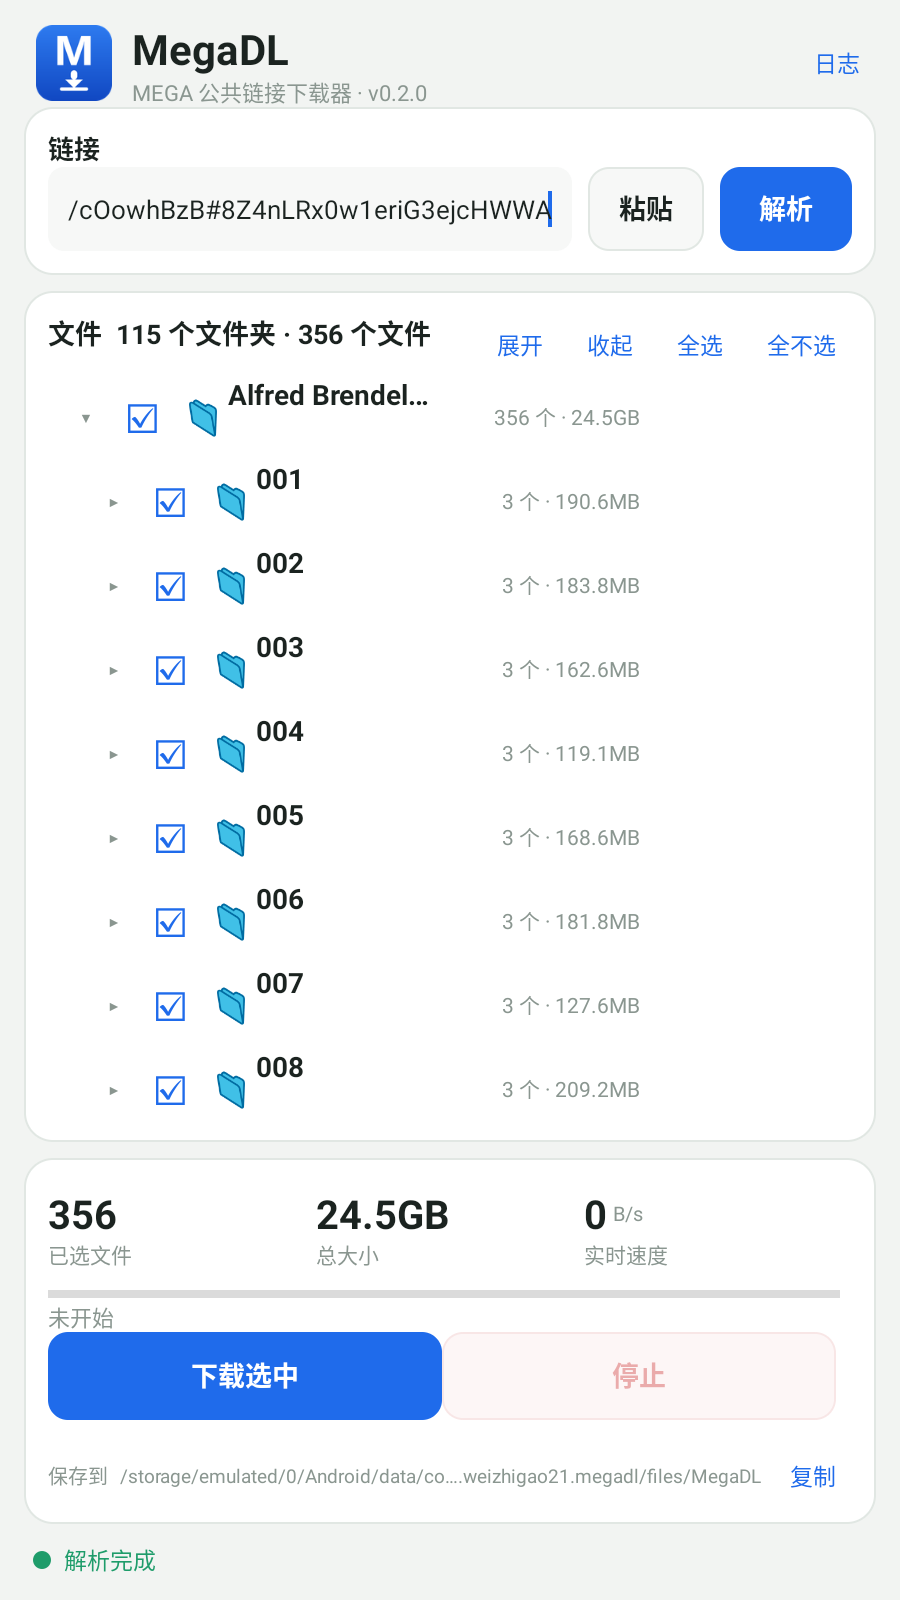
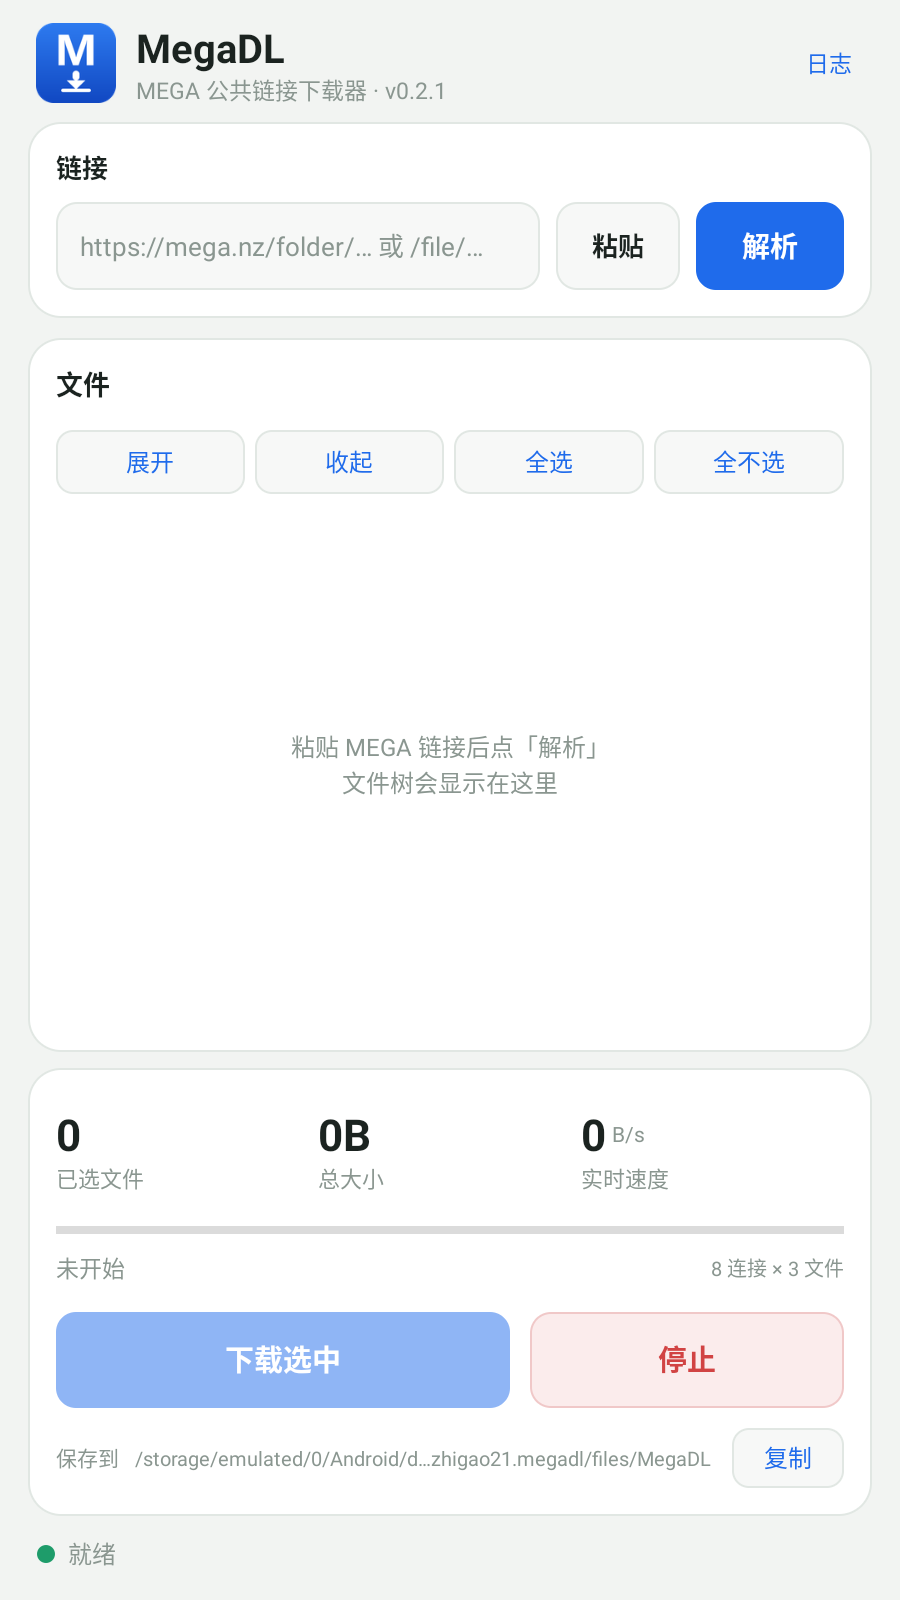
安卓界面 v0.2.1：重排尺寸与按钮比例
链接卡按钮 44dp 高、文件操作改为等宽分组；统计数字 22sp，进度行右侧固定显示并发信息，下载/停止按钮 48dp 且主次 1.45:1；保存路径与复制按钮对齐；文件树行高 44dp，压缩大小/状态列给文件名让位；空状态提示；修复停止时进度被置满。

diff --git a/android/src/com/weizhigao21/megadl/MainActivity.java b/android/src/com/weizhigao21/megadl/MainActivity.java
@@ -88,13 +88,13 @@ public class MainActivity extends Activity implements TreeAdapter.Host {
         LinearLayout root = new LinearLayout(this);
         root.setOrientation(LinearLayout.VERTICAL);
         root.setBackgroundColor(BG);
-        root.setPadding(dp(12), dp(10), dp(12), dp(8));
+        root.setPadding(dp(14), dp(10), dp(14), dp(10));
         setContentView(root);
 
-        root.addView(buildHeader(), lp(-1, -2, 0, 6, 0, 0));
+        root.addView(buildHeader(), lp(-1, -2, 0, 4, 0, 8));
 
         LinearLayout linkCard = card();
-        linkCard.addView(label("链接", 13, TEXT, true));
+        linkCard.addView(label("链接", 13, TEXT, true), lp(-1, -2, 0, 0, 0, 8));
         LinearLayout inputRow = new LinearLayout(this);
         inputRow.setOrientation(LinearLayout.HORIZONTAL);
         inputRow.setGravity(Gravity.CENTER_VERTICAL);
@@ -105,29 +105,31 @@ public class MainActivity extends Activity implements TreeAdapter.Host {
         input.setHintTextColor(MUTED);
         input.setHint("https://mega.nz/folder/… 或 /file/…");
         input.setInputType(InputType.TYPE_CLASS_TEXT | InputType.TYPE_TEXT_VARIATION_URI);
-        input.setBackground(round(FIELD, 8, 0, 0));
-        input.setPadding(dp(10), dp(8), dp(10), dp(8));
-        inputRow.addView(input, lp(0, dp(42), 1f, 0, 8, 0));
+        input.setBackground(round(FIELD, 10, 1, BORDER));
+        input.setPadding(dp(12), dp(8), dp(12), dp(8));
+        inputRow.addView(input, lp(0, dp(44), 1f, 0, 8, 0));
         TextView paste = pill("粘贴", false, false);
+        paste.setTextSize(13);
         paste.setOnClickListener(v -> paste());
-        inputRow.addView(paste, lp(dp(58), dp(42), 0f, 0, 8, 0));
+        inputRow.addView(paste, lp(dp(62), dp(44), 0f, 0, 8, 0));
         TextView parse = pill("解析", true, false);
+        parse.setTextSize(14);
         parse.setOnClickListener(v -> doParse());
-        inputRow.addView(parse, lp(dp(66), dp(42), 0f, 0, 0, 0));
+        inputRow.addView(parse, lp(dp(74), dp(44), 0f, 0, 0, 0));
         linkCard.addView(inputRow);
-        root.addView(linkCard, lp(-1, -2, 0, 0, 0, 8));
+        root.addView(linkCard, lp(-1, -2, 0, 0, 0, 10));
 
         LinearLayout fileCard = card();
-        LinearLayout fileHead = new LinearLayout(this);
-        fileHead.setOrientation(LinearLayout.HORIZONTAL);
-        fileHead.setGravity(Gravity.CENTER_VERTICAL);
         fileSummary = label("文件", 13.5f, TEXT, true);
-        fileHead.addView(fileSummary, lp(0, dp(30), 1f, 0, 0, 0));
-        fileHead.addView(action("展开", v -> expandAll(true)), lp(-2, dp(30), 0f, 0, 6, 0));
-        fileHead.addView(action("收起", v -> expandAll(false)), lp(-2, dp(30), 0f, 0, 6, 0));
-        fileHead.addView(action("全选", v -> selectAll(true)), lp(-2, dp(30), 0f, 0, 6, 0));
-        fileHead.addView(action("全不选", v -> selectAll(false)), lp(-2, dp(30), 0f, 0, 0, 0));
-        fileCard.addView(fileHead);
+        fileCard.addView(fileSummary, lp(-1, dp(28), 0, 0, 0, 4));
+
+        LinearLayout fileActions = new LinearLayout(this);
+        fileActions.setOrientation(LinearLayout.HORIZONTAL);
+        fileActions.addView(actionChip("展开", v -> expandAll(true)), lp(0, dp(32), 1f, 0, 5, 0));
+        fileActions.addView(actionChip("收起", v -> expandAll(false)), lp(0, dp(32), 1f, 0, 5, 0));
+        fileActions.addView(actionChip("全选", v -> selectAll(true)), lp(0, dp(32), 1f, 0, 5, 0));
+        fileActions.addView(actionChip("全不选", v -> selectAll(false)), lp(0, dp(32), 1f, 0, 0, 0));
+        fileCard.addView(fileActions, lp(-1, -2, 0, 0, 0, 6));
 
         list = new ListView(this);
         list.setDivider(null);
@@ -137,6 +139,12 @@ public class MainActivity extends Activity implements TreeAdapter.Host {
         adapter = new TreeAdapter(this, this);
         list.setAdapter(adapter);
         fileCard.addView(list, lp(-1, 0, 1f, 0, 0, 0));
+
+        TextView emptyHint = label("粘贴 MEGA 链接后点「解析」\n文件树会显示在这里", 12, MUTED, false);
+        emptyHint.setGravity(Gravity.CENTER);
+        emptyHint.setLineSpacing(dp(4), 1f);
+        fileCard.addView(emptyHint, lp(-1, 0, 1f, 0, 0, 0));
+        list.setEmptyView(emptyHint);
         root.addView(fileCard, lp(-1, 0, 1f, 0, 0, 8));
 
         root.addView(buildStatsCard(), lp(-1, -2, 0, 0, 0, 6));
@@ -147,9 +155,9 @@ public class MainActivity extends Activity implements TreeAdapter.Host {
         statusRow.setPadding(dp(4), 0, dp(4), 0);
         statusDot = label("●", 10, SUCCESS, false);
         statusRow.addView(statusDot);
-        statusText = label("就绪", 11.5f, MUTED, false);
+        statusText = label("就绪", 12, MUTED, false);
         statusRow.addView(statusText, lp(0, -2, 1f, 6, 0, 0));
-        root.addView(statusRow, lp(-1, dp(24), 0f, 0, 0, 0));
+        root.addView(statusRow, lp(-1, dp(26), 0f, 0, 0, 0));
     }
 
     private View buildHeader() {
@@ -158,14 +166,15 @@ public class MainActivity extends Activity implements TreeAdapter.Host {
         header.setGravity(Gravity.CENTER_VERTICAL);
         android.widget.ImageView icon = new android.widget.ImageView(this);
         icon.setImageResource(R.mipmap.ic_launcher);
-        header.addView(icon, lp(dp(38), dp(38), 0f, 0, 10, 0));
+        header.addView(icon, lp(dp(40), dp(40), 0f, 0, 10, 0));
         LinearLayout titles = new LinearLayout(this);
         titles.setOrientation(LinearLayout.VERTICAL);
-        titles.addView(label("MegaDL", 21, TEXT, true));
-        titles.addView(label("MEGA 公共链接下载器 · v0.2.0", 11, MUTED, false));
+        titles.addView(label("MegaDL", 20, TEXT, true));
+        titles.addView(label("MEGA 公共链接下载器 · v0.2.1", 11.5f, MUTED, false));
         header.addView(titles, lp(-2, -2, 1f, 0, 0, 0));
         TextView logBtn = action("日志", v -> showLogs());
-        header.addView(logBtn, lp(-2, dp(32), 0f, 0, 0, 0));
+        logBtn.setPadding(dp(10), dp(6), dp(10), dp(6));
+        header.addView(logBtn, lp(-2, dp(34), 0f, 0, 0, 0));
         return header;
     }
 
@@ -175,67 +184,70 @@ public class MainActivity extends Activity implements TreeAdapter.Host {
         LinearLayout metrics = new LinearLayout(this);
         metrics.setOrientation(LinearLayout.HORIZONTAL);
         metrics.setGravity(Gravity.CENTER_VERTICAL);
-        metrics.setPadding(0, dp(2), 0, dp(4));
+        metrics.setPadding(0, dp(4), 0, dp(8));
 
         LinearLayout c1 = metricColumn("0", null, "已选文件");
         countValue = (TextView) c1.getTag();
-        metrics.addView(c1, lp(0, dp(46), 1f, 0, 0, 0));
+        metrics.addView(c1, lp(0, dp(52), 1f, 0, 0, 0));
 
         LinearLayout c2 = metricColumn("0B", null, "总大小");
         sizeValue = (TextView) c2.getTag();
-        metrics.addView(c2, lp(0, dp(46), 1f, 0, 0, 0));
+        metrics.addView(c2, lp(0, dp(52), 1f, 0, 0, 0));
 
         LinearLayout c3 = metricColumnSpeed("0", "B/s", "实时速度");
         speedValue = (TextView) c3.getTag();
         speedUnit = (TextView) c3.getTag(R.id.speed_unit);
-        metrics.addView(c3, lp(0, dp(46), 1f, 0, 0, 0));
+        metrics.addView(c3, lp(0, dp(52), 1f, 0, 0, 0));
         card.addView(metrics);
 
         progress = new ProgressBar(this, null, android.R.attr.progressBarStyleHorizontal);
         progress.setMax(1000);
         progress.setProgress(0);
         progress.setProgressTintList(android.content.res.ColorStateList.valueOf(ACCENT));
-        card.addView(progress, lp(-1, dp(8), 0f, 0, 6, 0));
+        card.addView(progress, lp(-1, dp(6), 0f, 0, 0, 4));
 
         LinearLayout progressRow = new LinearLayout(this);
         progressRow.setOrientation(LinearLayout.HORIZONTAL);
-        progressText = label("", 11, MUTED, false);
+        progressRow.setGravity(Gravity.CENTER_VERTICAL);
+        progressText = label("", 11.5f, MUTED, false);
         progressText.setText("未开始");
-        progressRow.addView(progressText, lp(0, -2, 1f, 0, 0, 0));
-        pathText = label("", 10, MUTED, false);
+        progressRow.addView(progressText, lp(0, -2, 1f, 0, 8, 0));
+        pathText = label("8 连接 × 3 文件", 10, MUTED, false);
         pathText.setSingleLine(true);
-        pathText.setEllipsize(TextUtils.TruncateAt.MIDDLE);
-        progressRow.addView(pathText, lp(0, -2, 1.2f, 0, 0, 0));
-        card.addView(progressRow, lp(-1, -2, 0, 0, 6, 0));
+        pathText.setGravity(Gravity.END);
+        progressRow.addView(pathText, lp(-2, -2, 0f, 0, 0, 0));
+        card.addView(progressRow, lp(-1, dp(24), 0, 0, 0, 10));
 
         LinearLayout buttons = new LinearLayout(this);
         buttons.setOrientation(LinearLayout.HORIZONTAL);
         downloadButton = pill("下载选中", true, false);
+        downloadButton.setTextSize(14.5f);
         downloadButton.setOnClickListener(v -> startDownload());
-        buttons.addView(downloadButton, lp(0, dp(44), 1f, 0, 0, 8));
+        buttons.addView(downloadButton, lp(0, dp(48), 1.45f, 0, 10, 0));
         stopButton = pill("停止", false, true);
+        stopButton.setTextSize(14.5f);
         stopButton.setOnClickListener(v -> stopDownload());
-        buttons.addView(stopButton, lp(0, dp(44), 1f, 0, 8, 0));
-        card.addView(buttons, lp(-1, -2, 0, 0, 0, 0));
+        buttons.addView(stopButton, lp(0, dp(48), 1f, 0, 0, 0));
+        card.addView(buttons);
 
         LinearLayout pathRow = new LinearLayout(this);
         pathRow.setOrientation(LinearLayout.HORIZONTAL);
         pathRow.setGravity(Gravity.CENTER_VERTICAL);
-        pathRow.setPadding(0, dp(8), 0, 0);
-        pathRow.addView(label("保存到", 10, MUTED, false));
-        TextView savePath = label(saveDir().getAbsolutePath(), 9.5f, MUTED, false);
+        pathRow.setPadding(0, dp(10), 0, 0);
+        pathRow.addView(label("保存到", 10.5f, MUTED, false));
+        TextView savePath = label(saveDir().getAbsolutePath(), 10, MUTED, false);
         savePath.setSingleLine(true);
         savePath.setEllipsize(TextUtils.TruncateAt.MIDDLE);
-        savePath.setPadding(dp(6), 0, dp(6), 0);
+        savePath.setPadding(dp(8), 0, dp(8), 0);
         pathRow.addView(savePath, lp(0, -2, 1f, 0, 0, 0));
-        TextView copyBtn = action("复制", v -> {
+        TextView copyBtn = actionChip("复制", v -> {
             ClipboardManager cm = (ClipboardManager) getSystemService(Context.CLIPBOARD_SERVICE);
             if (cm != null) {
                 cm.setPrimaryClip(ClipData.newPlainText("MegaDL 保存路径", saveDir().getAbsolutePath()));
                 toast("路径已复制");
             }
         });
-        pathRow.addView(copyBtn);
+        pathRow.addView(copyBtn, lp(dp(56), dp(30), 0f, 0, 0, 0));
         card.addView(pathRow);
         return card;
     }
@@ -244,10 +256,10 @@ public class MainActivity extends Activity implements TreeAdapter.Host {
         LinearLayout col = new LinearLayout(this);
         col.setOrientation(LinearLayout.VERTICAL);
         col.setGravity(Gravity.CENTER_HORIZONTAL);
-        TextView v = label(value, 20, TEXT, true);
+        TextView v = label(value, 22, TEXT, true);
         v.setSingleLine(true);
         col.addView(v);
-        col.addView(label(caption, 10.5f, MUTED, false));
+        col.addView(label(caption, 11, MUTED, false));
         col.setTag(v);
         return col;
     }
@@ -259,15 +271,15 @@ public class MainActivity extends Activity implements TreeAdapter.Host {
         LinearLayout line = new LinearLayout(this);
         line.setOrientation(LinearLayout.HORIZONTAL);
         line.setGravity(Gravity.CENTER_VERTICAL);
-        TextView v = label(value, 20, TEXT, true);
+        TextView v = label(value, 22, TEXT, true);
         v.setSingleLine(true);
-        TextView u = label(unit, 10, MUTED, false);
+        TextView u = label(unit, 10.5f, MUTED, false);
         line.addView(v);
         LinearLayout.LayoutParams ulp = new LinearLayout.LayoutParams(-2, -2);
         ulp.leftMargin = dp(3);
         line.addView(u, ulp);
         col.addView(line);
-        col.addView(label(caption, 10.5f, MUTED, false));
+        col.addView(label(caption, 11, MUTED, false));
         col.setTag(v);
         col.setTag(R.id.speed_unit, u);
         return col;
@@ -281,7 +293,10 @@ public class MainActivity extends Activity implements TreeAdapter.Host {
         ClipData data = cm.getPrimaryClip();
         if (data != null && data.getItemCount() > 0) {
             CharSequence text = data.getItemAt(0).coerceToText(this);
-            if (text != null) input.setText(text.toString().trim());
+            if (text != null) {
+                input.setText(text.toString().trim());
+                input.setSelection(0);
+            }
         }
     }
 
@@ -504,8 +519,15 @@ public class MainActivity extends Activity implements TreeAdapter.Host {
                     setBusyUi(false);
                     refreshSelectable();
                     adapter.rebuild(roots);
-                    progress.setProgress(1000);
-                    progressText.setText(Mega.fmtSize(batchTotal) + " / " + Mega.fmtSize(batchTotal));
+                    long done = engine == null ? 0 : engine.getTotalDone();
+                    if (stopped) {
+                        int permille = batchTotal <= 0 ? 0 : (int) Math.min(1000, done * 1000 / batchTotal);
+                        progress.setProgress(permille);
+                        progressText.setText(Mega.fmtSize(done) + " / " + Mega.fmtSize(batchTotal));
+                    } else {
+                        progress.setProgress(1000);
+                        progressText.setText(Mega.fmtSize(batchTotal) + " / " + Mega.fmtSize(batchTotal));
+                    }
                     String text;
                     if (stopped) text = "已停止：完成 " + ok + "，失败 " + fail;
                     else text = "完成 " + ok + (fail > 0 ? "，失败 " + fail : "") + (skip > 0 ? "，跳过 " + skip : "");
@@ -623,8 +645,8 @@ public class MainActivity extends Activity implements TreeAdapter.Host {
     private LinearLayout card() {
         LinearLayout box = new LinearLayout(this);
         box.setOrientation(LinearLayout.VERTICAL);
-        box.setPadding(dp(12), dp(12), dp(12), dp(12));
-        box.setBackground(round(CARD, 14, 1, BORDER));
+        box.setPadding(dp(14), dp(14), dp(14), dp(14));
+        box.setBackground(round(CARD, 16, 1, BORDER));
         return box;
     }
 
@@ -641,6 +663,17 @@ public class MainActivity extends Activity implements TreeAdapter.Host {
         TextView tv = label(text, 11.5f, ACCENT, false);
         tv.setGravity(Gravity.CENTER);
         tv.setPadding(dp(8), dp(4), dp(8), dp(4));
+        tv.setOnClickListener(click);
+        return tv;
+    }
+
+    private TextView actionChip(String text, View.OnClickListener click) {
+        TextView tv = label(text, 12, ACCENT, false);
+        tv.setGravity(Gravity.CENTER);
+        tv.setSingleLine(true);
+        tv.setPadding(dp(4), 0, dp(4), 0);
+        tv.setBackground(round(FIELD, 8, 1, BORDER));
+        tv.setClickable(true);
         tv.setOnClickListener(click);
         return tv;
     }

diff --git a/android/src/com/weizhigao21/megadl/TreeAdapter.java b/android/src/com/weizhigao21/megadl/TreeAdapter.java
@@ -141,7 +141,7 @@ public class TreeAdapter extends BaseAdapter {
         row.setOrientation(LinearLayout.HORIZONTAL);
         row.setGravity(Gravity.CENTER_VERTICAL);
         row.setPadding(dp(8), 0, dp(10), 0);
-        row.setLayoutParams(new ViewGroup.LayoutParams(ViewGroup.LayoutParams.MATCH_PARENT, dp(42)));
+        row.setLayoutParams(new ViewGroup.LayoutParams(ViewGroup.LayoutParams.MATCH_PARENT, dp(44)));
         row.setBackgroundColor(Color.TRANSPARENT);
         row.setMinimumHeight(0);
         row.setTag(new Holder());
@@ -153,32 +153,32 @@ public class TreeAdapter extends BaseAdapter {
 
         h.arrow = textView(14, MUTED, false);
         h.arrow.setGravity(Gravity.CENTER);
-        row.addView(h.arrow, new LinearLayout.LayoutParams(dp(22), dp(42)));
+        row.addView(h.arrow, new LinearLayout.LayoutParams(dp(22), dp(44)));
 
         h.check = textView(20, ACCENT, false);
         h.check.setGravity(Gravity.CENTER);
         h.check.setPadding(dp(2), 0, dp(2), 0);
-        row.addView(h.check, new LinearLayout.LayoutParams(dp(34), dp(42)));
+        row.addView(h.check, new LinearLayout.LayoutParams(dp(36), dp(44)));
 
         h.icon = textView(16, MUTED, false);
         h.icon.setGravity(Gravity.CENTER);
-        row.addView(h.icon, new LinearLayout.LayoutParams(dp(26), dp(42)));
+        row.addView(h.icon, new LinearLayout.LayoutParams(dp(26), dp(44)));
 
         h.name = textView(14, TEXT, false);
         h.name.setSingleLine(true);
         h.name.setEllipsize(TextUtils.TruncateAt.END);
-        LinearLayout.LayoutParams nameLp = new LinearLayout.LayoutParams(0, dp(42), 1f);
+        LinearLayout.LayoutParams nameLp = new LinearLayout.LayoutParams(0, dp(44), 1f);
         row.addView(h.name, nameLp);
 
         h.size = textView(10.5f, MUTED, false);
         h.size.setGravity(Gravity.RIGHT | Gravity.CENTER_VERTICAL);
-        row.addView(h.size, new LinearLayout.LayoutParams(dp(104), dp(42)));
+        row.addView(h.size, new LinearLayout.LayoutParams(dp(92), dp(44)));
 
         h.state = textView(11, MUTED, false);
         h.state.setGravity(Gravity.RIGHT | Gravity.CENTER_VERTICAL);
         h.state.setSingleLine(true);
         h.state.setEllipsize(TextUtils.TruncateAt.END);
-        row.addView(h.state, new LinearLayout.LayoutParams(dp(96), dp(42)));
+        row.addView(h.state, new LinearLayout.LayoutParams(dp(86), dp(44)));
 
         return row;
     }

diff --git a/android/README.md b/android/README.md
@@ -49,5 +49,6 @@ adb shell am start -n com.weizhigao21.megadl/.MainActivity
 
 ## 版本
 
-v0.2.0 / versionCode 2，minSdk 24，targetSdk 34，仅申请 INTERNET 权限。
+v0.2.1 / versionCode 3，minSdk 24，targetSdk 34，仅申请 INTERNET 权限。
 下载服务器可能返回 `http://` 直链，清单里开启了 `usesCleartextTraffic`。
+
